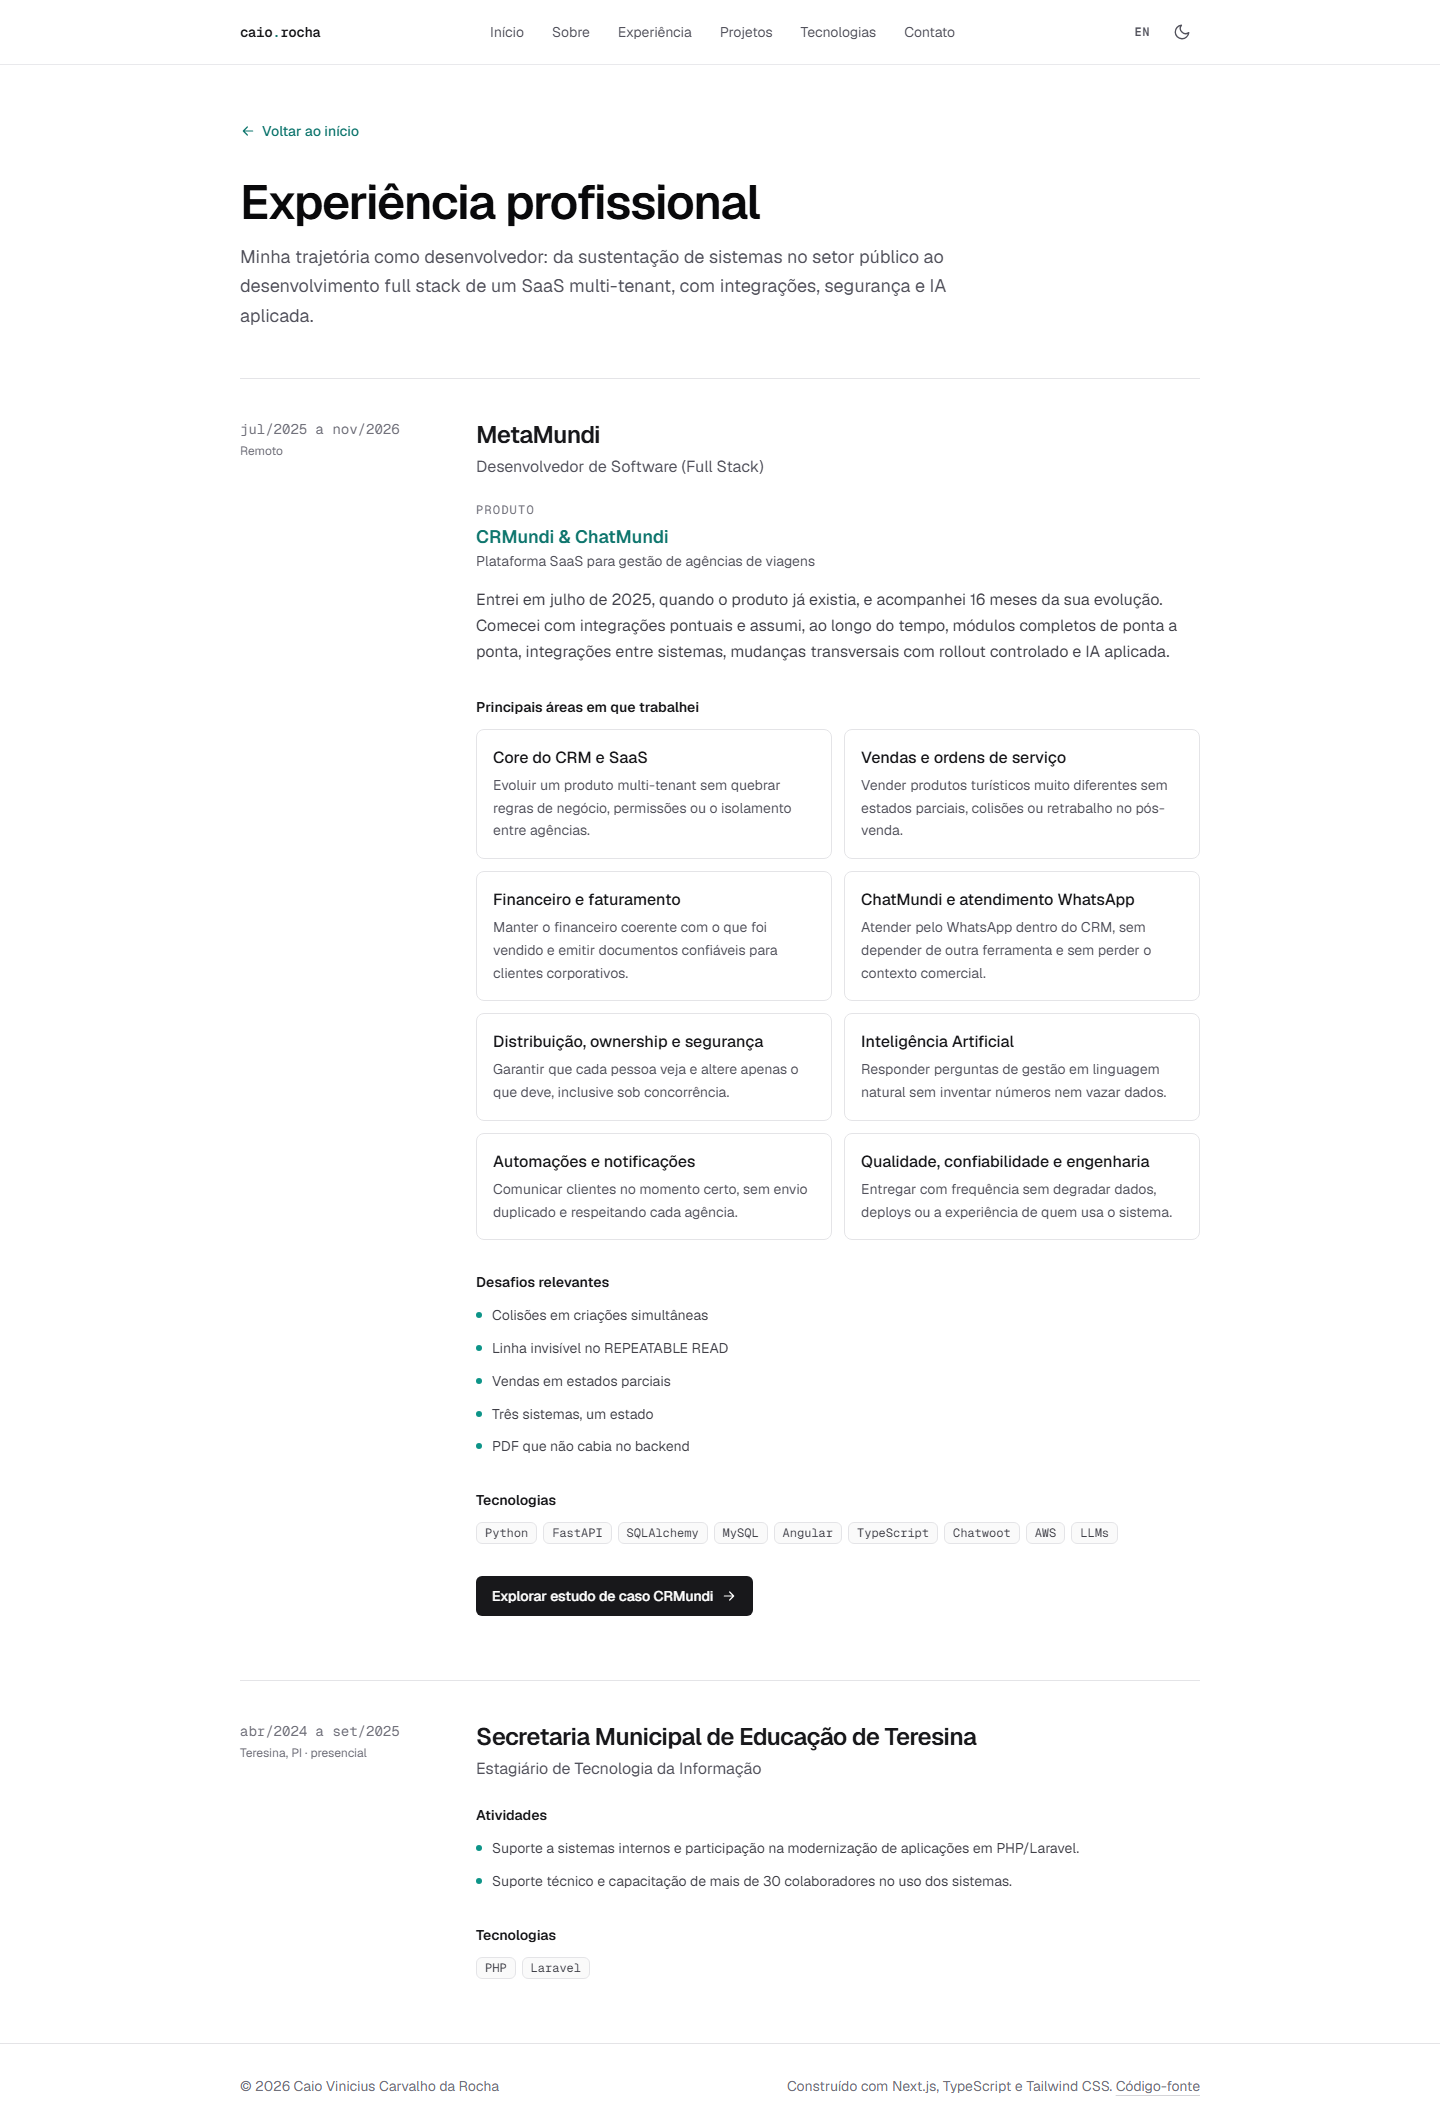
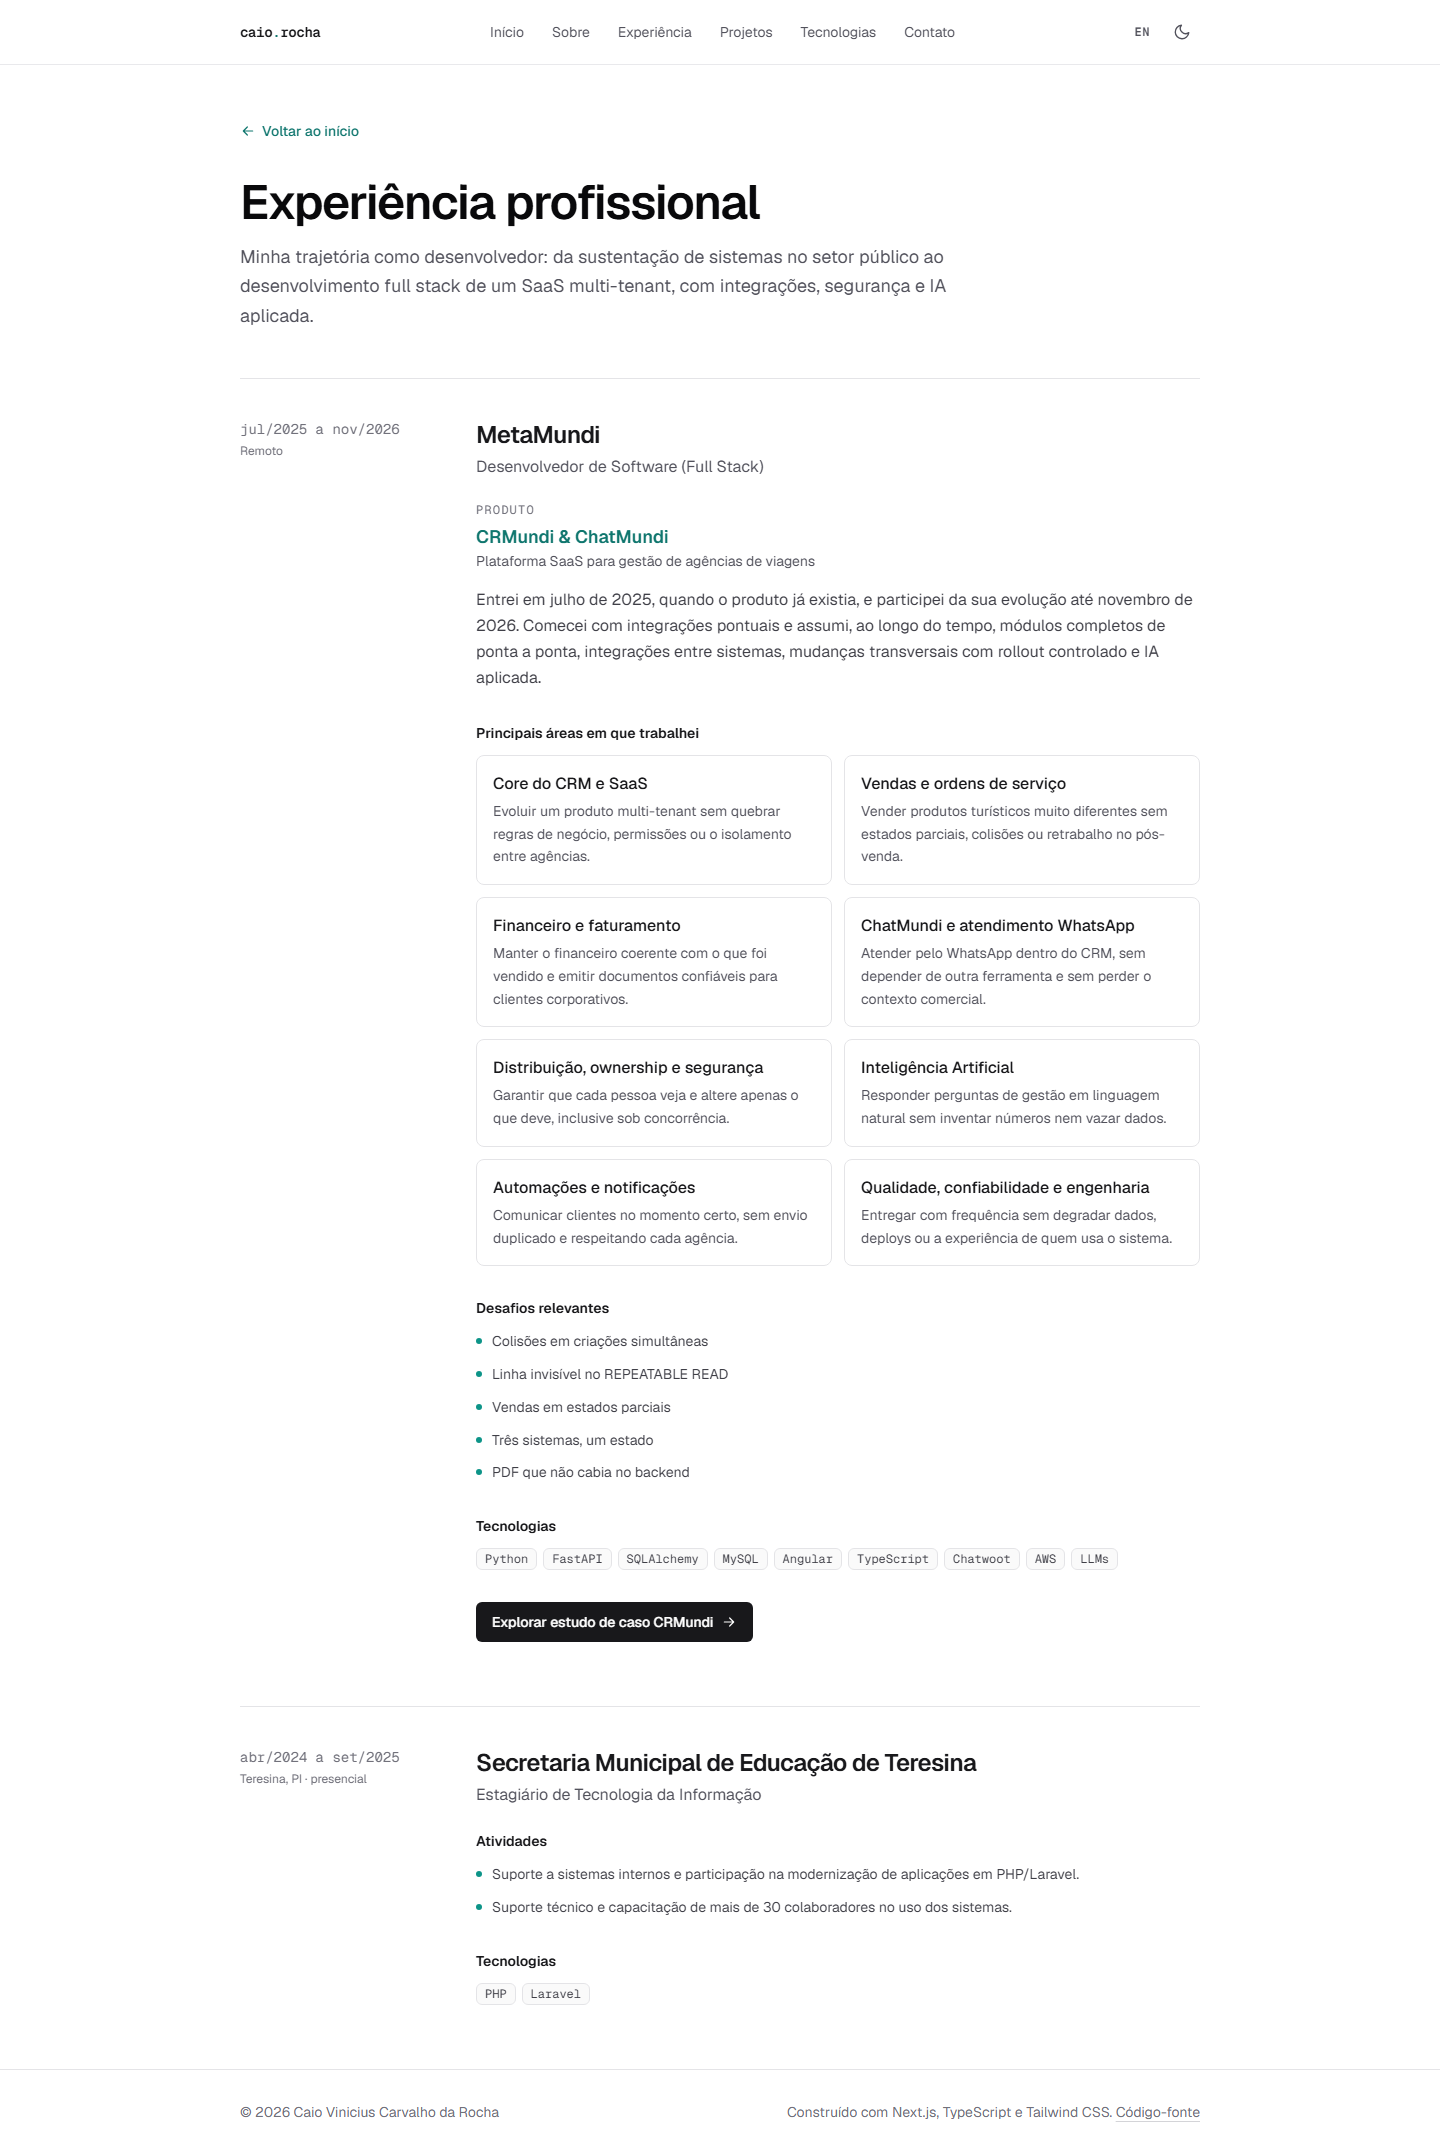
refactor(portfolio): improve professional positioning and simplify resume management
Hero, Sobre, SEO e estudo de caso com posicionamento amplo (Full Stack | Backend | Integrações | IA Aplicada), sem contagem de meses. Remove o código de currículo para download e adiciona testes que garantem a ausência de currículo e de contagem de meses.

diff --git a/src/data/profile.ts b/src/data/profile.ts
@@ -5,45 +5,45 @@ export const profile = {
   fullName: 'Caio Vinicius Carvalho da Rocha',
   role: { pt: 'Engenheiro de Software', en: 'Software Engineer' } satisfies Localized,
   focus: {
-    pt: 'Backend Python · Full Stack · Integrações e IA aplicada',
-    en: 'Python Backend · Full Stack · Integrations and Applied AI',
+    pt: 'Full Stack | Backend | Integrações | IA Aplicada',
+    en: 'Full Stack | Backend | Integrations | Applied AI',
   } satisfies Localized,
   location: { pt: 'Teresina, Piauí, Brasil', en: 'Teresina, Piauí, Brazil' } satisfies Localized,
   email: 'caiovinicios82@gmail.com',
   github: 'https://github.com/caiorocha7',
   linkedin: 'https://linkedin.com/in/caioroch',
-  // Sem currículo no site: o autor envia uma versão específica para cada vaga.
-  resume: null as string | null,
   intro: {
-    pt: 'Engenheiro de Software com 16 meses de experiência em um SaaS multi-tenant em produção. Resolvo problemas de concorrência, consistência de dados, segurança e integração entre sistemas com Python/FastAPI, Angular e MySQL, e aplico IA com respostas verificáveis.',
-    en: 'Software Engineer with 16 months of experience on a multi-tenant SaaS in production. I solve concurrency, data-consistency, security and system-integration problems with Python/FastAPI, Angular and MySQL, and apply AI with verifiable answers.',
+    pt: 'Desenvolvo soluções de software de ponta a ponta, das interfaces e APIs a microsserviços, integrações e automações. Tenho experiência na evolução de sistemas SaaS em produção, com Python, TypeScript, Angular, AWS e inteligência artificial.',
+    en: 'I build software end to end, from interfaces and APIs to microservices, integrations and automation. I have experience evolving SaaS systems in production, working with Python, TypeScript, Angular, AWS and artificial intelligence.',
   } satisfies Localized,
   about: {
     pt: [
-      'Tenho formação em Engenharia de Software e pós-graduação em Inteligência Artificial pelo iCEV. Na MetaMundi, atuei em uma plataforma SaaS multi-tenant, desenvolvendo APIs REST, microsserviços e integrações de atendimento com WhatsApp, além de regras de acesso, controle de concorrência e um assistente com LLMs.',
-      'Gosto de problemas em que a confiabilidade importa: transações e locks, idempotência, filas e retentativas, autorização no backend e respostas de IA que podem ser verificadas. Meus projetos públicos seguem essa linha: todos têm testes automatizados, CI e limitações documentadas com honestidade.',
+      'Tenho formação em Engenharia de Software e pós-graduação em Inteligência Artificial pelo iCEV. Na MetaMundi, trabalhei no desenvolvimento e na evolução de uma plataforma SaaS para agências de viagem, em áreas como vendas, financeiro, faturamento, atendimento via WhatsApp, segurança e IA aplicada.',
+      'Atuo no backend e no frontend: APIs e microsserviços em Python, interfaces em Angular, integrações com serviços externos, automações e recursos na AWS, com testes automatizados e atenção à manutenção de sistemas em produção. Nos projetos pessoais, também trabalho com React, Next.js e Node.js.',
     ],
     en: [
-      'I studied Software Engineering and Artificial Intelligence (postgraduate program) at iCEV. At MetaMundi I worked on a multi-tenant SaaS platform, building REST APIs, microservices and WhatsApp customer-service integrations, along with access rules, concurrency control and an LLM-based assistant.',
-      'I enjoy problems where reliability matters: transactions and locks, idempotency, queues and retries, server-side authorization and AI answers that can be verified. My public projects follow the same approach: each one ships with automated tests, CI and honestly documented limitations.',
+      'I studied Software Engineering and Artificial Intelligence (postgraduate program) at iCEV. At MetaMundi I worked on building and evolving a SaaS platform for travel agencies, in areas such as sales, finance, billing, WhatsApp customer service, security and applied AI.',
+      'I work across backend and frontend: Python APIs and microservices, Angular interfaces, integrations with external services, automation and AWS resources, with automated tests and care for maintaining systems in production. In personal projects I also work with React, Next.js and Node.js.',
     ],
   } satisfies Localized<string[]>,
   strengths: {
     pt: [
-      'Sistemas SaaS multi-tenant',
-      'Backend e APIs REST',
       'Desenvolvimento full stack',
-      'Integrações e automações',
-      'Engenharia de IA aplicada',
-      'Qualidade, testes e segurança',
+      'Sistemas SaaS em produção',
+      'APIs, microsserviços e integrações',
+      'Automações e AWS',
+      'Segurança e autenticação',
+      'IA aplicada',
+      'Testes e qualidade',
     ],
     en: [
-      'Multi-tenant SaaS systems',
-      'Backend and REST APIs',
       'Full stack development',
-      'Integrations and automation',
-      'Applied AI engineering',
-      'Quality, testing and security',
+      'SaaS systems in production',
+      'APIs, microservices and integrations',
+      'Automation and AWS',
+      'Security and authentication',
+      'Applied AI',
+      'Testing and quality',
     ],
   } satisfies Localized<string[]>,
   education: [

diff --git a/src/data/crmundi.ts b/src/data/crmundi.ts
@@ -78,12 +78,12 @@ export const crmundi = {
   executive: {
     pt: [
       'O CRMundi é uma plataforma SaaS multi-tenant de gestão comercial, financeira e de atendimento para agências de viagem. O ChatMundi é a camada de atendimento WhatsApp, baseada em um fork do Chatwoot, que passou a funcionar também dentro do CRM.',
-      'Entrei em julho de 2025, quando o produto já existia, e acompanhei 16 meses da sua evolução. Comecei com integrações pontuais e assumi, ao longo do tempo, módulos completos de ponta a ponta, integrações entre sistemas, mudanças transversais com rollout controlado e IA aplicada.',
+      'Entrei em julho de 2025, quando o produto já existia, e participei da sua evolução até novembro de 2026. Comecei com integrações pontuais e assumi, ao longo do tempo, módulos completos de ponta a ponta, integrações entre sistemas, mudanças transversais com rollout controlado e IA aplicada.',
       'Trabalhei com backend Python/FastAPI, frontend Angular, MySQL, integrações externas e serviços AWS, sempre dentro de um time e sobre uma arquitetura que eu não criei, mas que estendi e endureci em praticamente todos os domínios principais.',
     ],
     en: [
       'CRMundi is a multi-tenant SaaS platform for travel agencies covering sales, finance and customer service. ChatMundi is the WhatsApp customer-service layer, based on a Chatwoot fork, which also became available inside the CRM.',
-      'I joined in July 2025, when the product already existed, and followed 16 months of its evolution. I started with targeted integrations and, over time, took on complete end-to-end modules, cross-system integrations, cross-cutting changes with controlled rollouts and applied AI.',
+      'I joined in July 2025, when the product already existed, and took part in its evolution until November 2026. I started with targeted integrations and, over time, took on complete end-to-end modules, cross-system integrations, cross-cutting changes with controlled rollouts and applied AI.',
       'I worked with a Python/FastAPI backend, an Angular frontend, MySQL, external integrations and AWS services, always as part of a team and on an architecture I did not create but extended and hardened across nearly every core domain.',
     ],
   } satisfies Localized<string[]>,

diff --git a/src/data/dictionary.ts b/src/data/dictionary.ts
@@ -4,7 +4,7 @@ const pt = {
   meta: {
     title: 'Caio Rocha | Engenheiro de Software',
     description:
-      'Portfólio de Caio Rocha, Engenheiro de Software com foco em backend, full stack, integrações e IA aplicada. Experiência em SaaS multi-tenant e projetos com NestJS, React, FastAPI, Angular, Next.js e RAG.',
+      'Portfólio de Caio Rocha, Engenheiro de Software full stack: interfaces, APIs, microsserviços, integrações, automações e IA aplicada, com experiência na evolução de sistemas SaaS em produção.',
   },
   nav: {
     skip: 'Pular para o conteúdo',
@@ -24,7 +24,6 @@ const pt = {
     eyebrow: 'Disponível para oportunidades remotas',
     projects: 'Ver projetos',
     experience: 'Ver experiência',
-    resume: 'Currículo (PDF)',
     summary: 'Resumo',
     based: 'Base',
     education: 'Formação',
@@ -130,7 +129,7 @@ const en: Dictionary = {
   meta: {
     title: 'Caio Rocha | Software Engineer',
     description:
-      'Portfolio of Caio Rocha, a Software Engineer focused on backend, full stack, integrations and applied AI. Experience with multi-tenant SaaS and projects built with NestJS, React, FastAPI, Angular, Next.js and RAG.',
+      'Portfolio of Caio Rocha, a full stack Software Engineer: interfaces, APIs, microservices, integrations, automation and applied AI, with experience evolving SaaS systems in production.',
   },
   nav: {
     skip: 'Skip to content',
@@ -150,7 +149,6 @@ const en: Dictionary = {
     eyebrow: 'Open to remote opportunities',
     projects: 'View projects',
     experience: 'View experience',
-    resume: 'Résumé (PDF, Portuguese)',
     summary: 'At a glance',
     based: 'Based in',
     education: 'Education',

diff --git a/src/app/[locale]/page.tsx b/src/app/[locale]/page.tsx
@@ -2,7 +2,7 @@ import Link from 'next/link';
 import { notFound } from 'next/navigation';
 import { ExternalLink } from '@/components/ExternalLink';
 import { ExperienceCard } from '@/components/ExperienceCard';
-import { ArrowIcon, DownloadIcon, GitHubIcon, LinkedInIcon, MailIcon } from '@/components/icons';
+import { ArrowIcon, GitHubIcon, LinkedInIcon, MailIcon } from '@/components/icons';
 import { ProjectCard } from '@/components/ProjectCard';
 import { Container, Section, buttonStyles } from '@/components/ui';
 import { getDictionary } from '@/data/dictionary';
@@ -11,7 +11,6 @@ import { profile } from '@/data/profile';
 import { projects } from '@/data/projects';
 import { stack } from '@/data/stack';
 import { isLocale, localePath } from '@/lib/i18n';
-import { asset } from '@/lib/site';
 
 export default async function HomePage({ params }: { params: Promise<{ locale: string }> }) {
   const { locale } = await params;
@@ -73,12 +72,6 @@ export default async function HomePage({ params }: { params: Promise<{ locale: s
                 <LinkedInIcon width={16} height={16} />
                 LinkedIn
               </ExternalLink>
-              {profile.resume && (
-                <a href={asset(profile.resume)} download className={buttonStyles.secondary}>
-                  <DownloadIcon width={16} height={16} />
-                  {dict.hero.resume}
-                </a>
-              )}
             </div>
           </div>
           <aside aria-label={dict.hero.summary} className="hidden lg:block">

diff --git a/src/test/content.test.ts b/src/test/content.test.ts
@@ -83,8 +83,16 @@ describe('projetos', () => {
       }
     }
   });
+});
 
-  it('o currículo só é exibido se o PDF existir', () => {
-    if (profile.resume) expect(existsSync(resolve(PUBLIC, `.${profile.resume}`))).toBe(true);
+describe('perfil', () => {
+  it('o site não referencia currículo', () => {
+    expect(Object.keys(profile)).not.toContain('resume');
+    expect(existsSync(resolve(PUBLIC, 'resume'))).toBe(false);
+  });
+
+  it('o posicionamento não traz contagem de meses de experiência', () => {
+    const text = JSON.stringify({ profile, experience, dictionaries });
+    expect(text).not.toMatch(/\d+\s*(meses|months)|1 ano e 4/i);
   });
 });

diff --git a/src/components/icons.tsx b/src/components/icons.tsx
@@ -65,14 +65,6 @@ export function ExternalIcon(props: IconProps) {
   );
 }
 
-export function DownloadIcon(props: IconProps) {
-  return (
-    <svg {...base(props)}>
-      <path d="M12 4v11M7 10l5 5 5-5M5 20h14" />
-    </svg>
-  );
-}
-
 export function SunIcon(props: IconProps) {
   return (
     <svg {...base(props)}>

diff --git a/docs/MAINTENANCE.md b/docs/MAINTENANCE.md
@@ -4,7 +4,7 @@
 
 | O que mudar                                                               | Arquivo                  |
 | ------------------------------------------------------------------------- | ------------------------ |
-| Nome, título, introdução, sobre, formação, links, currículo               | `src/data/profile.ts`    |
+| Nome, título, introdução, sobre, formação, links                          | `src/data/profile.ts`    |
 | Experiência profissional                                                  | `src/data/experience.ts` |
 | Experiência MetaMundi, estudo de caso CRMundi (domínios, status, limites) | `src/data/crmundi.ts`    |
 | Projetos (resumo, arquitetura, decisões, testes, limitações, capturas)    | `src/data/projects.ts`   |
@@ -34,9 +34,9 @@ rode `node scripts/capture-screenshots.mjs`.
 
 ## Currículo
 
-O site **não** oferece currículo para download, por decisão do autor (ele envia uma versão específica para
-cada vaga). `profile.resume` fica `null` e não há arquivos em `public/resume/`. O teste E2E garante que nenhum link
-de currículo apareça e que os PDFs antigos respondam 404.
+O site **não** oferece currículo para download, por decisão do autor: o currículo é um documento local,
+enviado diretamente nas candidaturas. Não há campo de currículo no perfil nem arquivos em `public/resume/`.
+O teste de conteúdo e o teste E2E garantem que nenhum link de currículo apareça e que os PDFs antigos respondam 404.
 
 ## Estudo de caso CRMundi
 

diff --git a/README.md b/README.md
@@ -2,8 +2,9 @@
 
 [![CI e deploy](https://github.com/caiorocha7/caio-rocha-portfolio/actions/workflows/ci.yml/badge.svg)](https://github.com/caiorocha7/caio-rocha-portfolio/actions/workflows/ci.yml)
 
-Site de portfólio de **Caio Rocha**, Engenheiro de Software (Backend · Full Stack · IA aplicada).
-Apresenta três projetos completos com estudos de caso, capturas reais, testes e limitações documentadas.
+Site de portfólio de **Caio Rocha**, Engenheiro de Software (Full Stack | Backend | Integrações | IA Aplicada).
+Apresenta a experiência profissional e três projetos completos com estudos de caso, capturas reais, testes e
+limitações documentadas. O site não oferece currículo para download.
 
 **Site:** https://caiorocha7.github.io/caio-rocha-portfolio/
 
@@ -77,7 +78,7 @@ $env:NEXT_PUBLIC_BASE_PATH='/caio-rocha-portfolio'; pnpm build; pnpm start
 
 ## Manutenção e deploy
 
-Como atualizar textos, projetos e capturas, reativar o currículo e como publicar em outro host:
+Como atualizar textos, projetos e capturas e como publicar em outro host:
 [docs/MAINTENANCE.md](docs/MAINTENANCE.md).
 
 ## Licença
